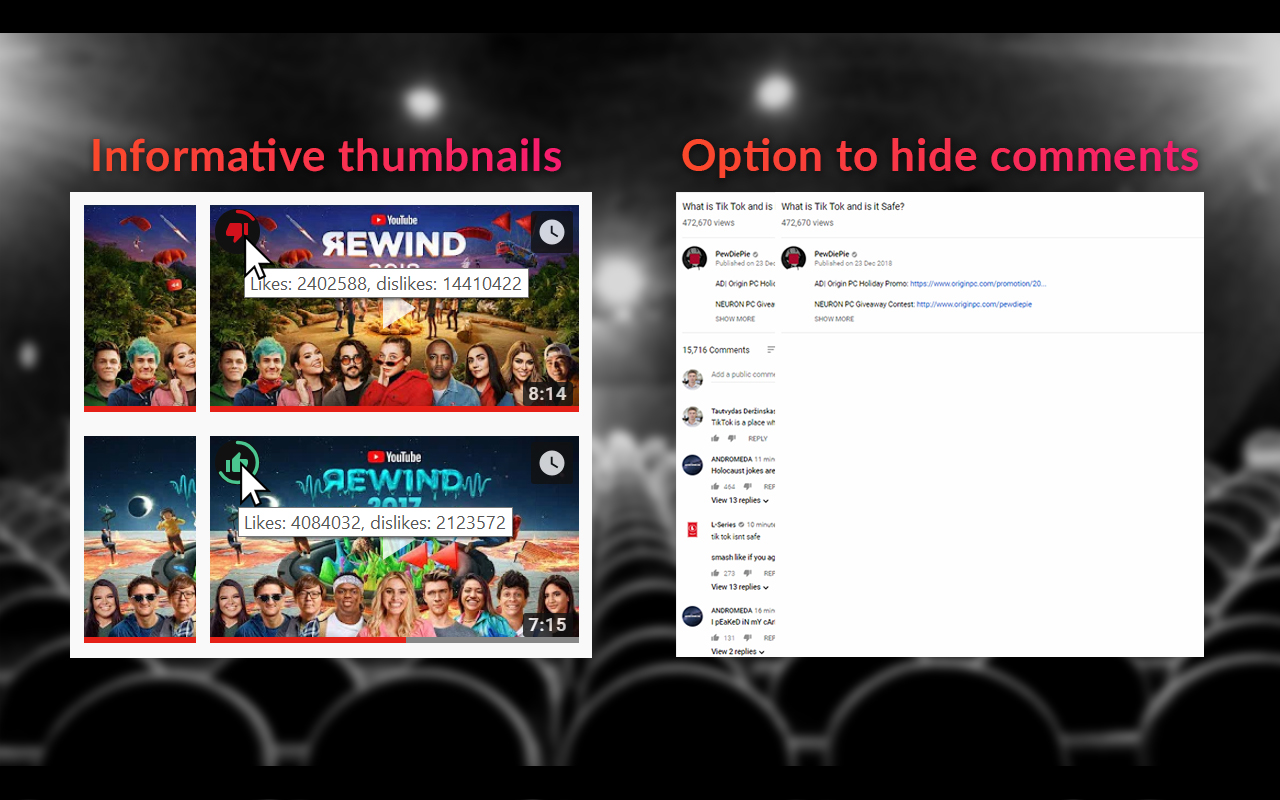
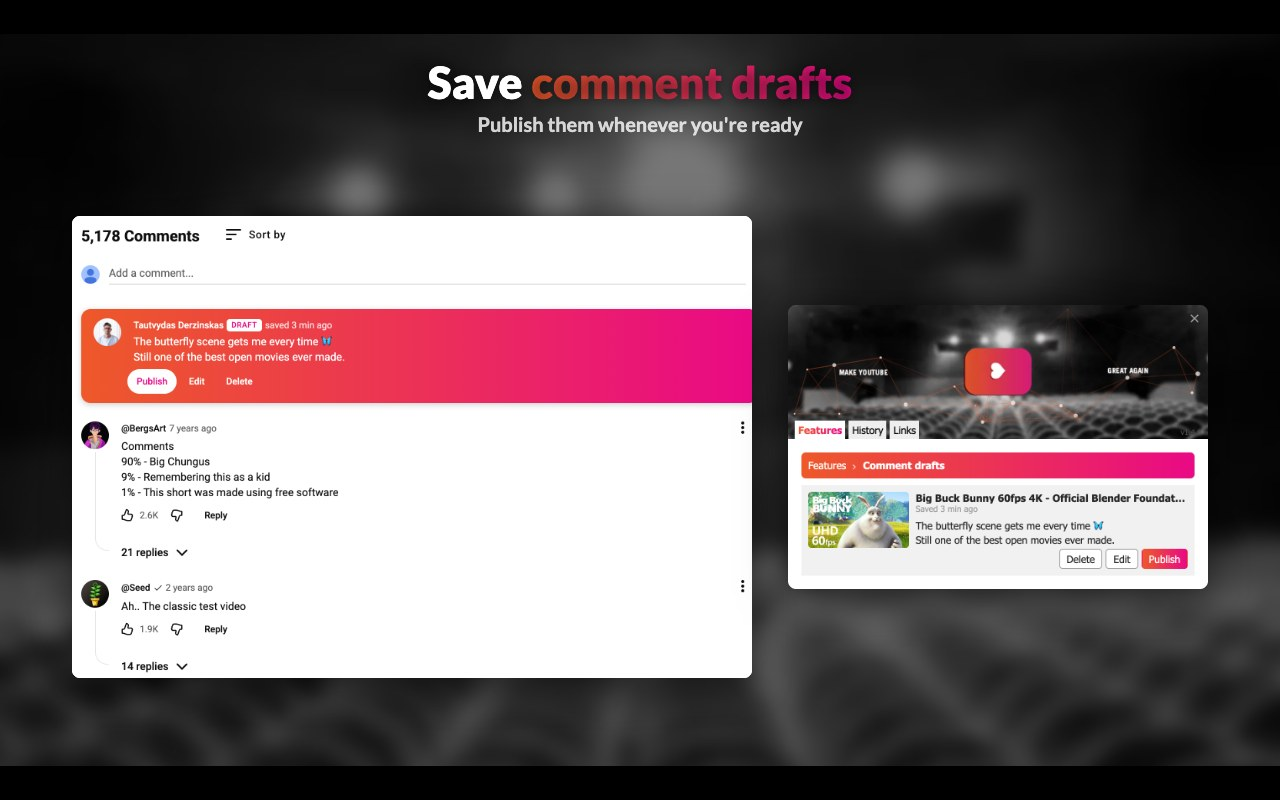
docs: update readme and screenshots

diff --git a/src/services/content/tooltip.service.ts b/src/services/content/tooltip.service.ts
@@ -12,6 +12,7 @@ const EDGE_MARGIN = 8;
  */
 class TooltipService {
   private hideTooltip = () => this.hide();
+  private showFrame: number;
 
   public attach(element: HTMLElement, text: string) {
     this.setText(element, text);
@@ -22,7 +23,12 @@ class TooltipService {
     }
     element.setAttribute('data-myga-tooltip-attached', '');
     element.addEventListener('mouseenter', () => this.show(element));
-    element.addEventListener('focus', () => this.show(element));
+    // Keyboard focus only: a click focuses the button too, and would bring the tooltip back after hiding it
+    element.addEventListener('focus', () => {
+      if (element.matches(':focus-visible')) {
+        this.show(element);
+      }
+    });
     element.addEventListener('mouseleave', this.hideTooltip);
     element.addEventListener('blur', this.hideTooltip);
     element.addEventListener('click', this.hideTooltip);
@@ -69,10 +75,13 @@ class TooltipService {
 
     tooltip.style.left = `${Math.round(left)}px`;
     tooltip.style.top = `${Math.round(top)}px`;
-    requestAnimationFrame(() => tooltip.classList.add('myga-tooltip--visible'));
+    cancelAnimationFrame(this.showFrame);
+    this.showFrame = requestAnimationFrame(() => tooltip.classList.add('myga-tooltip--visible'));
   }
 
   private hide() {
+    // A fade in still pending would show it again right after
+    cancelAnimationFrame(this.showFrame);
     const tooltip = document.getElementById(TOOLTIP_ID);
     if (tooltip) {
       tooltip.classList.remove('myga-tooltip--visible');

diff --git a/src/popup/tabs/features/features.component.scss b/src/popup/tabs/features/features.component.scss
@@ -1,7 +1,7 @@
 @use '../../variables' as *;
 
 // Two columns, so the list doesn't make the popup tall
-.settings {
+.features-list {
   display: grid;
   grid-template-columns: 1fr 1fr;
   gap: $default-spacing $large-spacing;

diff --git a/src/popup/tabs/features/features.component.tsx b/src/popup/tabs/features/features.component.tsx
@@ -15,7 +15,7 @@ export default class FeaturesComponent extends React.Component {
     });
 
     return (
-      <div className='settings'>
+      <div className='features-list'>
         {allSettingsHtml}
       </div>
     );

diff --git a/README.md b/README.md
@@ -9,20 +9,10 @@
   <a href="https://opensource.org/licenses/MIT" target="_blank"><img src="https://img.shields.io/badge/license-MIT-blue.svg" alt="MIT License" title="MIT License"></a>
 </p>
 
-## Table of content
-- [About](#about)
-- [Installation](#installation)
-- [Features](#features)
-- [Screenshots](#screenshots)
-- [Development](#development)
-- [Releasing](#releasing)
-- [License](#license)
-- [Changelog](CHANGELOG.md)
-
 ## About
 _First of all please have in mind that extension name "Make YouTube™ great again" is chosen only because it sounds funny! Please don't look for any hidden political message - there is none._
 
-Make YouTube™ Great Again is a Browser extension which extends YouTube websites user interface with additional [features](#features). User don't have to use all of the extensions features as there is an option to toggle each of them on and off. There is also a history tab which shows how many times and on what YouTube™ videos those features been used.
+Make YouTube™ Great Again is a browser extension adding the small things YouTube™ is missing. Every feature can be switched on or off in the extension's popup, so you only keep what you use. Everything it saves stays in your browser: no accounts, no analytics, no tracking.
 
 ## Installation
 Chrome, Edge, Opera & Vivaldi users (the extension is not in the Chrome Web Store at the moment):
@@ -39,95 +29,65 @@ Firefox users please head to link below:
 
 ## Features
 
-<p align="center">
-  <strong>Loop videos</strong>
-  <p align="center">
-  <img src="docs/images/feature_02.gif" width="250px" alt="Loop videos" />
-  </p>
-</p>
-Adds button under each YouTube™ video which when activated enables video looping.
-This works with the HTML5 player.
+### Audio mode
+Listening to music, a podcast or a talk? Mark a video as audio and it plays at the lowest video quality behind its artwork, saving bandwidth with the same sound quality. Marked videos play as audio every time they load, and a playlist can be marked in one click.
 
-____
+<img src="docs/images/feature_audio_mode.jpg" width="440px" alt="Audio mode" />
 
-<p align="center">
-  <strong>Hide comments</strong>
-  <p align="center">
-  <img src="docs/images/feature_04.gif" width="250px" alt="Hide comments" />
-  </p>
-</p>
-Sometimes it's nice to hide the comments... This feature does exactly that.
-It hides both normal comments and live chat messages.
+### Cinema mode
+Fades out everything around the video. Press Esc or click around the video to bring the page back.
 
-____
+<img src="docs/images/feature_cinema_mode.jpg" width="440px" alt="Cinema mode" />
 
-<p align="center">
-  <strong>Custom progress bar</strong>
-  <p align="center">
-  <img src="docs/images/feature_05.gif" width="250px" alt="Custom progress barr" />
-  </p>
-</p>
-Have a custom and nice looking playback progress bar!
+### Loop
+Plays the video on repeat.
 
-____
+<img src="docs/images/feature_loop.jpg" width="440px" alt="Loop" />
 
-<p align="center">
-  <strong>Floating video</strong>
-  <p align="center">
-  <img src="docs/images/feature_06.gif" width="250px" alt="Custom progress barr" />
-  </p>
-</p>
-Don't miss a second of your YouTube™ video even when reading comments!
+### Screenshots
+Saves the current frame in one click, in the quality you're watching. Screenshots show under the video and in the popup, ready to download or delete, and take you back to the moment they were taken.
+
+<img src="docs/images/feature_screenshots.jpg" width="440px" alt="Screenshots" />
+
+### Comment drafts
+Adds "Create a Draft" to the comment box. Drafts show above the comments, ready to publish, edit or delete, and are all listed in the popup.
+
+<img src="docs/images/feature_comment_drafts.jpg" width="440px" alt="Comment drafts" />
+
+### Floating video
+Keeps the video playing in a small window while you scroll down to read the comments. Move it anywhere and resize it.
+
+<img src="docs/images/feature_floating_video.jpg" width="440px" alt="Floating video" />
+
+### Custom progress bar
+Swaps the progress bar for a playful one: Nyan Cat, a unicorn, a panda and more.
+
+<img src="docs/images/feature_custom_progress_bar.jpg" width="440px" alt="Custom progress bar" />
+
+### Hide comments
+Hides comments and live chat messages.
+
+<img src="docs/images/feature_hide_comments.jpg" width="300px" alt="Hide comments" />
+
+### Hide the Thanks button
+Removes the "Thanks" button from under videos.
+
+### History
+Lists the videos you've recently watched and looped.
+
+<img src="docs/images/feature_history.jpg" width="300px" alt="History" />
 
 ## Screenshots
-<a href="docs/images/screenshot_01.jpg" target="_blank"><img width="200px" src="docs/images/screenshot_01.jpg" alt="Screenshot" title="Screenshot" /></a><a href="docs/images/screenshot_02.jpg" target="_blank"><img width="200px" src="docs/images/screenshot_02.jpg" alt="Screenshot" title="Screenshot" /></a><a href="docs/images/screenshot_03.jpg" target="_blank"><img width="200px" src="docs/images/screenshot_03.jpg" alt="Screenshot" title="Screenshot" /></a><a href="docs/images/screenshot_04.jpg" target="_blank"><img width="200px" src="docs/images/screenshot_04.jpg" alt="Screenshot" title="Screenshot" /></a><a href="docs/images/screenshot_05.jpg" target="_blank"><img width="200px" src="docs/images/screenshot_05.jpg" alt="Screenshot" title="Screenshot" /></a>
+<a href="docs/images/screenshot_01.jpg" target="_blank"><img width="200px" src="docs/images/screenshot_01.jpg" alt="Screenshot" title="Screenshot" /></a><a href="docs/images/screenshot_02.jpg" target="_blank"><img width="200px" src="docs/images/screenshot_02.jpg" alt="Screenshot" title="Screenshot" /></a><a href="docs/images/screenshot_03.jpg" target="_blank"><img width="200px" src="docs/images/screenshot_03.jpg" alt="Screenshot" title="Screenshot" /></a><a href="docs/images/screenshot_04.jpg" target="_blank"><img width="200px" src="docs/images/screenshot_04.jpg" alt="Screenshot" title="Screenshot" /></a><a href="docs/images/screenshot_05.jpg" target="_blank"><img width="200px" src="docs/images/screenshot_05.jpg" alt="Screenshot" title="Screenshot" /></a><a href="docs/images/screenshot_06.jpg" target="_blank"><img width="200px" src="docs/images/screenshot_06.jpg" alt="Screenshot" title="Screenshot" /></a><a href="docs/images/screenshot_07.jpg" target="_blank"><img width="200px" src="docs/images/screenshot_07.jpg" alt="Screenshot" title="Screenshot" /></a>
 
+## Contributing
+Want to help? See [CONTRIBUTING.md](CONTRIBUTING.md), which also has the [build instructions for add-on reviewers](CONTRIBUTING.md#build-instructions-for-add-on-reviewers). Changes are listed in the [changelog](CHANGELOG.md).
 
+## Support
+If Make YouTube™ Great Again is useful to you, consider supporting its development:
 
-## Development
-Everyone is welcomed to contribute to the project or use the code for their own projects.
-
-Requirements: Node.js 24 (see `.nvmrc`).
-
-1. Run `npm install` to install dependencies (this also sets up the git hooks)
-2. Run `npm run dev` (Chrome) or `npm run dev:firefox` to build in watch mode into `dist/<browser>`
-3. Load the extension:
-   - **Chrome**: open `chrome://extensions`, enable developer mode and "Load unpacked" the `dist/chrome` folder
-   - **Firefox**: open `about:debugging#/runtime/this-firefox` and "Load Temporary Add-on…" selecting `dist/firefox/manifest.json`
-
-| Script | Description |
-| --- | --- |
-| `npm run build` | Production build for both browsers (`dist/chrome`, `dist/firefox`) |
-| `npm run build:chrome` / `npm run build:firefox` | Production build for a single browser |
-| `npm run zip` | Package the builds into `myga-chrome.zip` & `myga-firefox.zip` |
-| `npm run lint` | Lint with [oxlint](https://oxc.rs/docs/guide/usage/linter) |
-| `npm run typecheck` | Type check with TypeScript |
-| `npm run commit` | Write a conventional commit message interactively |
-
-### Build instructions for add-on reviewers
-The extension is written in TypeScript and bundled with [Rspack](https://rspack.rs). To reproduce the submitted Firefox build from source:
-
-```sh
-npm ci
-npm run build:firefox
-```
-
-The output is written to `dist/firefox`.
-
-## Releasing
-Releases are fully automated with [semantic-release](https://github.com/semantic-release/semantic-release). Commit messages must follow [Conventional Commits](https://www.conventionalcommits.org) (enforced by commitlint): `feat:` → minor, `feat!:` / `BREAKING CHANGE:` → major, any other type (`fix:`, `chore:`, `refactor:`, `docs:`…) → patch, so every push releases.
-
-There's a single branch, `main`. Every push to it (including merged pull requests) runs the [Release workflow](.github/workflows/release.yml), which:
-1. runs the CI checks (lint, typecheck, build)
-2. works out the next version from the commits since the last release and updates `package.json` & `CHANGELOG.md`
-3. builds both browsers with that version and publishes the Firefox add-on to addons.mozilla.org
-4. creates a GitHub release with both zips attached (the Chrome zip is installed from there, the extension is not in the Chrome Web Store at the moment)
-
-The following repository secrets are required (in the `release` environment):
-
-| Secret | Description |
-| --- | --- |
-| `AMO_API_KEY`, `AMO_API_SECRET` | addons.mozilla.org API key (JWT issuer) & secret ([developer hub](https://addons.mozilla.org/developers/addon/api/key/)) |
+- [GitHub Sponsors](https://github.com/sponsors/TautvydasDerzinskas)
+- [Buy Me a Coffee](https://buymeacoffee.com/TautvydasDerzinskas)
 
 ## License
 The repository code is open-sourced software licensed under the [MIT license](LICENSE).

diff --git a/CONTRIBUTING.md b/CONTRIBUTING.md
@@ -1,0 +1,33 @@
+# Contributing
+Everyone is welcome to contribute to the project or use the code for their own projects.
+
+## Development
+Requirements: Node.js 24 (see `.nvmrc`).
+
+1. Run `npm install` to install dependencies (this also sets up the git hooks)
+2. Run `npm run dev` (Chrome) or `npm run dev:firefox` to build in watch mode into `dist/<browser>`
+3. Load the extension:
+   - **Chrome**: open `chrome://extensions`, enable developer mode and "Load unpacked" the `dist/chrome` folder
+   - **Firefox**: open `about:debugging#/runtime/this-firefox` and "Load Temporary Add-on…" selecting `dist/firefox/manifest.json`
+
+| Script | Description |
+| --- | --- |
+| `npm run build` | Production build for both browsers (`dist/chrome`, `dist/firefox`) |
+| `npm run build:chrome` / `npm run build:firefox` | Production build for a single browser |
+| `npm run zip` | Package the builds into `myga-chrome.zip` & `myga-firefox.zip` |
+| `npm run lint` | Lint with [oxlint](https://oxc.rs/docs/guide/usage/linter) |
+| `npm run typecheck` | Type check with TypeScript |
+| `npm run commit` | Write a conventional commit message interactively |
+
+## Build instructions for add-on reviewers
+The extension is written in TypeScript and bundled with [Rspack](https://rspack.rs). To reproduce the submitted Firefox build from source:
+
+```sh
+npm ci
+npm run build:firefox
+```
+
+The output is written to `dist/firefox`.
+
+## Commits & releases
+Commit messages follow [Conventional Commits](https://www.conventionalcommits.org), checked by commitlint (`npm run commit` helps writing them). Every push to `main` releases a new version: `feat:` → minor, `feat!:` / `BREAKING CHANGE:` → major, any other type → patch.
